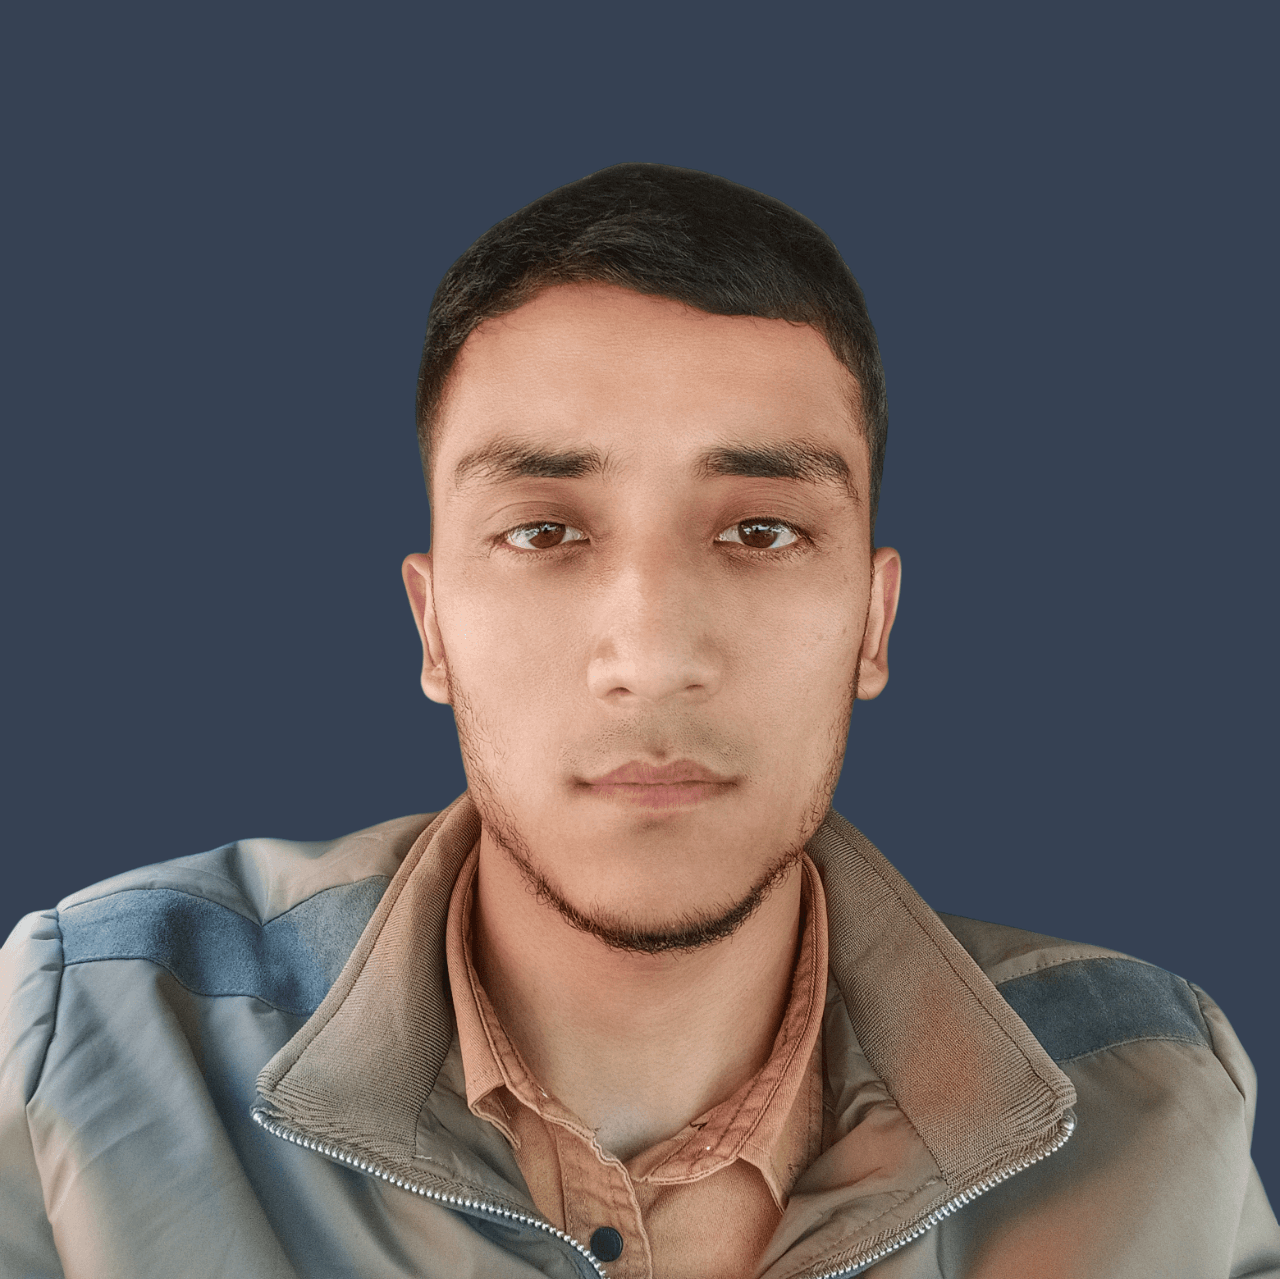
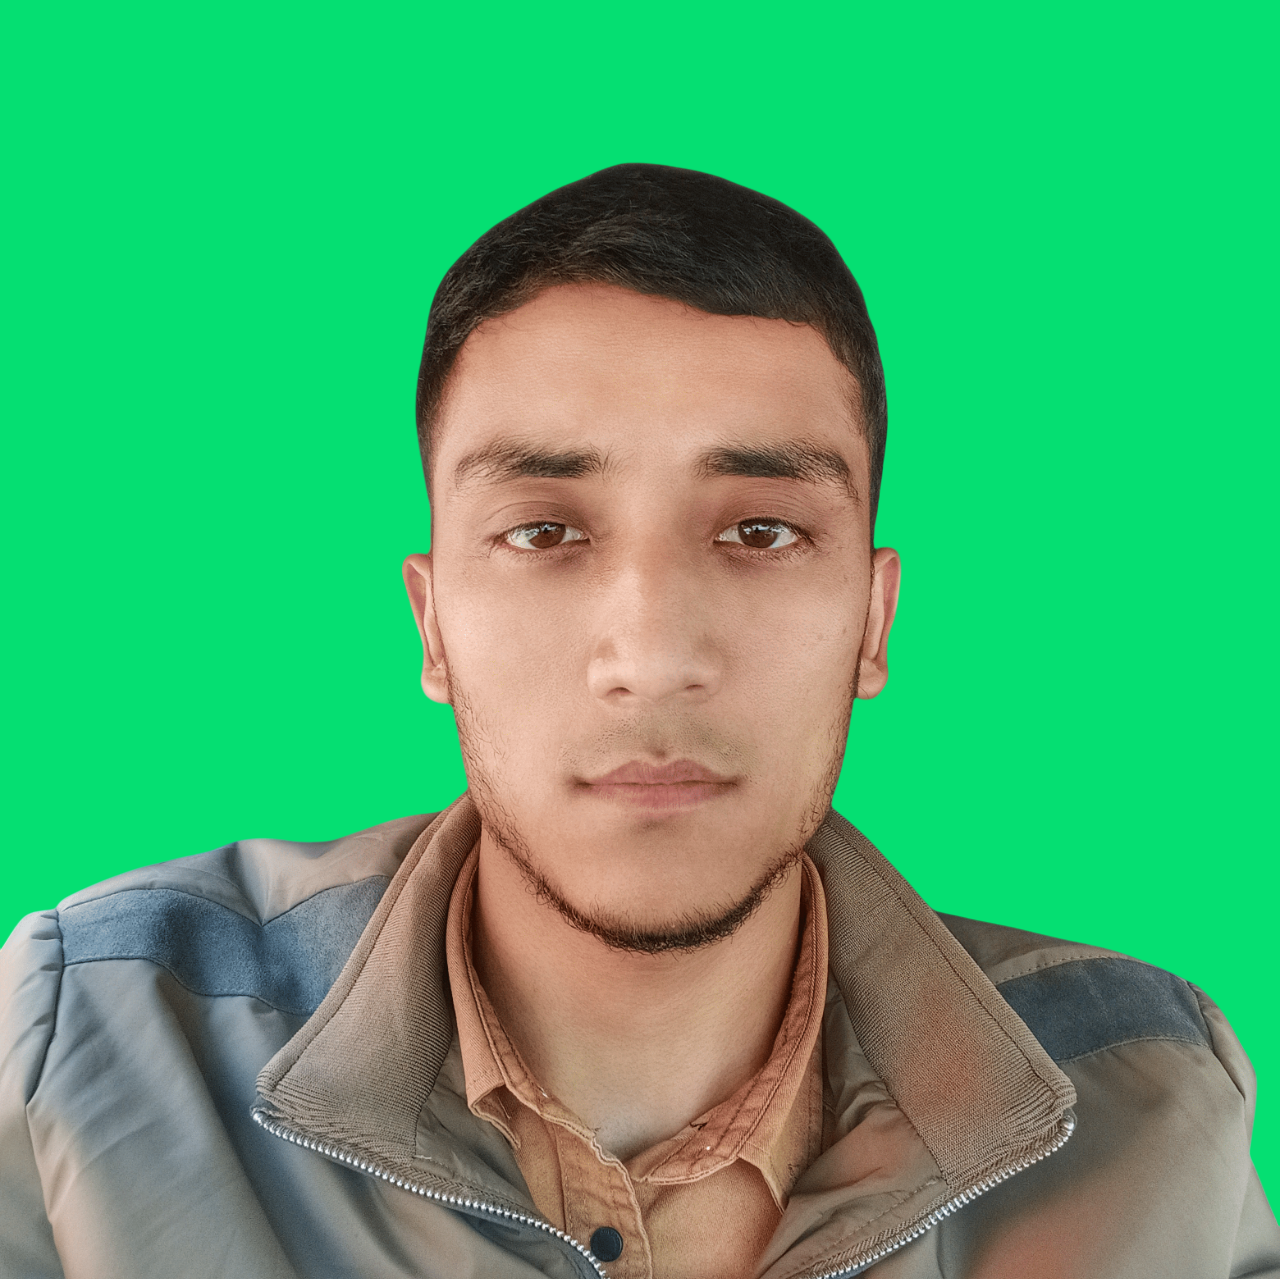
Update hero-img

diff --git a/main.css b/main.css
@@ -65,7 +65,7 @@ img {
 }
 
 .hero-img {
-	color: rgba(54, 65, 83, 0.3);
+	color: rgba(5, 223, 114, 0.3);
 }
 
 #langToggle-mobile,
